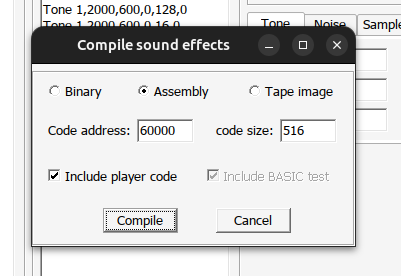
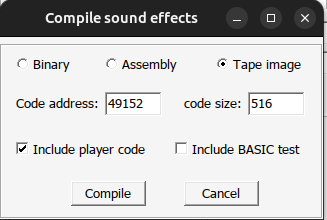
update beepfx documentation for new way and removes sprites color

diff --git a/pages/mydoc/mydoc_sound_fx.md b/pages/mydoc/mydoc_sound_fx.md
@@ -24,7 +24,13 @@ ZX Game Maker necesita que definas 7 sonidos. Se reproducirán cuando en el jueg
 
 # Exportar para ZX Game Maker
 
-Para exportar tus efectos de sonido para el ZX Spectrum Game Maker, sólo tendrás que ir al menu File > Compile. Seleccionar **Assembly** e **Include player code**, pulsar **Compile** y guardar el archivo en tu carpeta **assets** con el nombre **soundEffects.asm**
+Para exportar tus efectos de sonido para el ZX Spectrum Game Maker, sólo tendrás que ir al menu File > Compile.
+* Seleccionar **Tap image**
+* En **Code address** poner 49152 
+* Seleccionar **Include player code**
+* Deseleccionar **Include basic test**
+* Pulsar **Compile**
+* Guardar el archivo en tu carpeta **assets/fx** con el nombre **fx.tap**
 
 ![](images/beepfx_compile.png)
 

diff --git a/pages/mydoc/mydoc_tiled_adding_enemies.md b/pages/mydoc/mydoc_tiled_adding_enemies.md
@@ -53,13 +53,13 @@ Para ello solo tienes que añadir una propiedad personalizada **life** **de tipo
 
 ![](images/vida_enemigo.png)
 
-## Color
+<!-- ## Color
 
 Se le puede cambiar al enemigo el color simplemente añadiendo una propiedad personalizada **color** **de tipo int** donde tienes que poner el color de spectrum (0-7) deseado.
 
 ![](./images/colores_spectrum.png)
 
-![](./images/sprites_color.png)
+![](./images/sprites_color.png) -->
 
 {% include links.html %}
 
